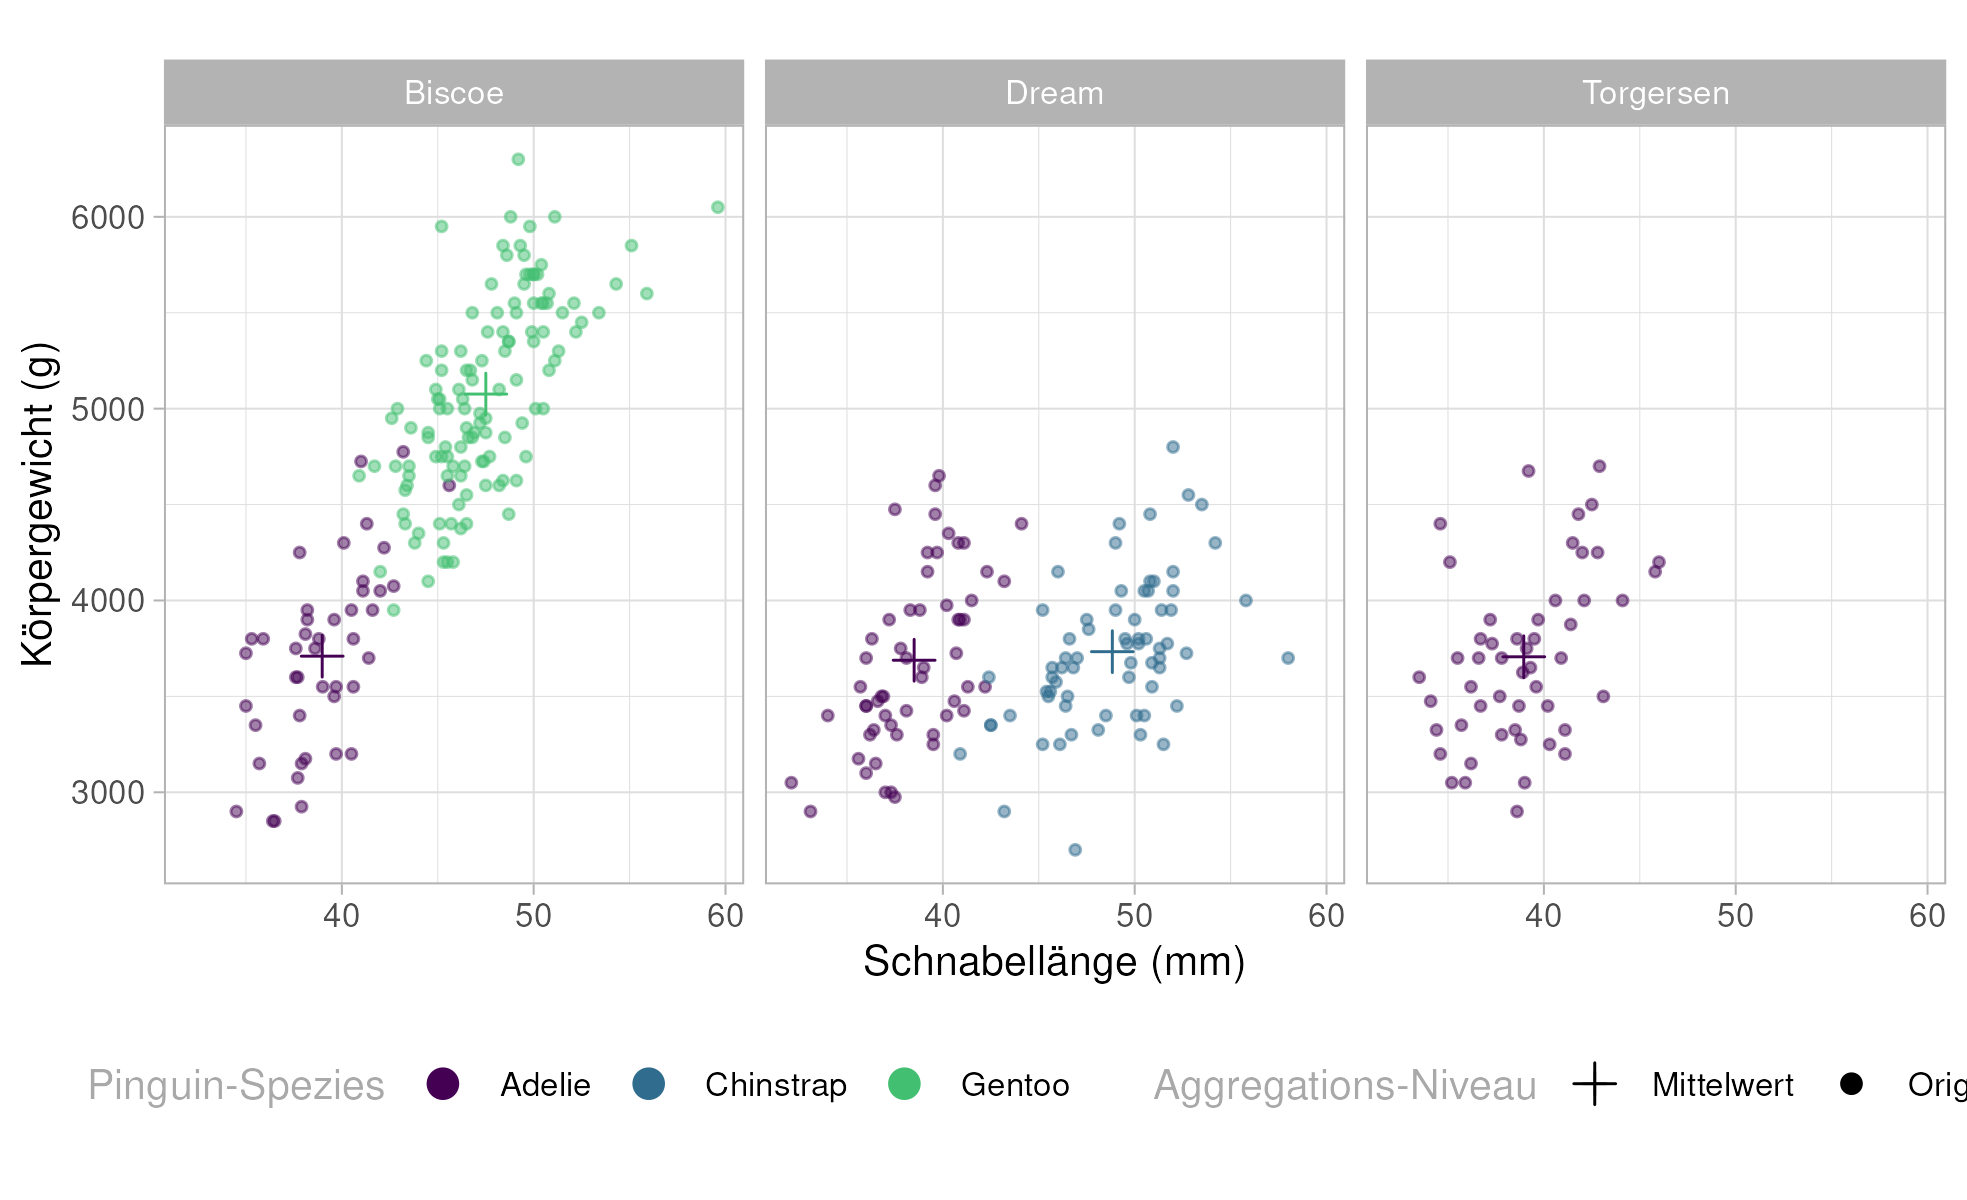
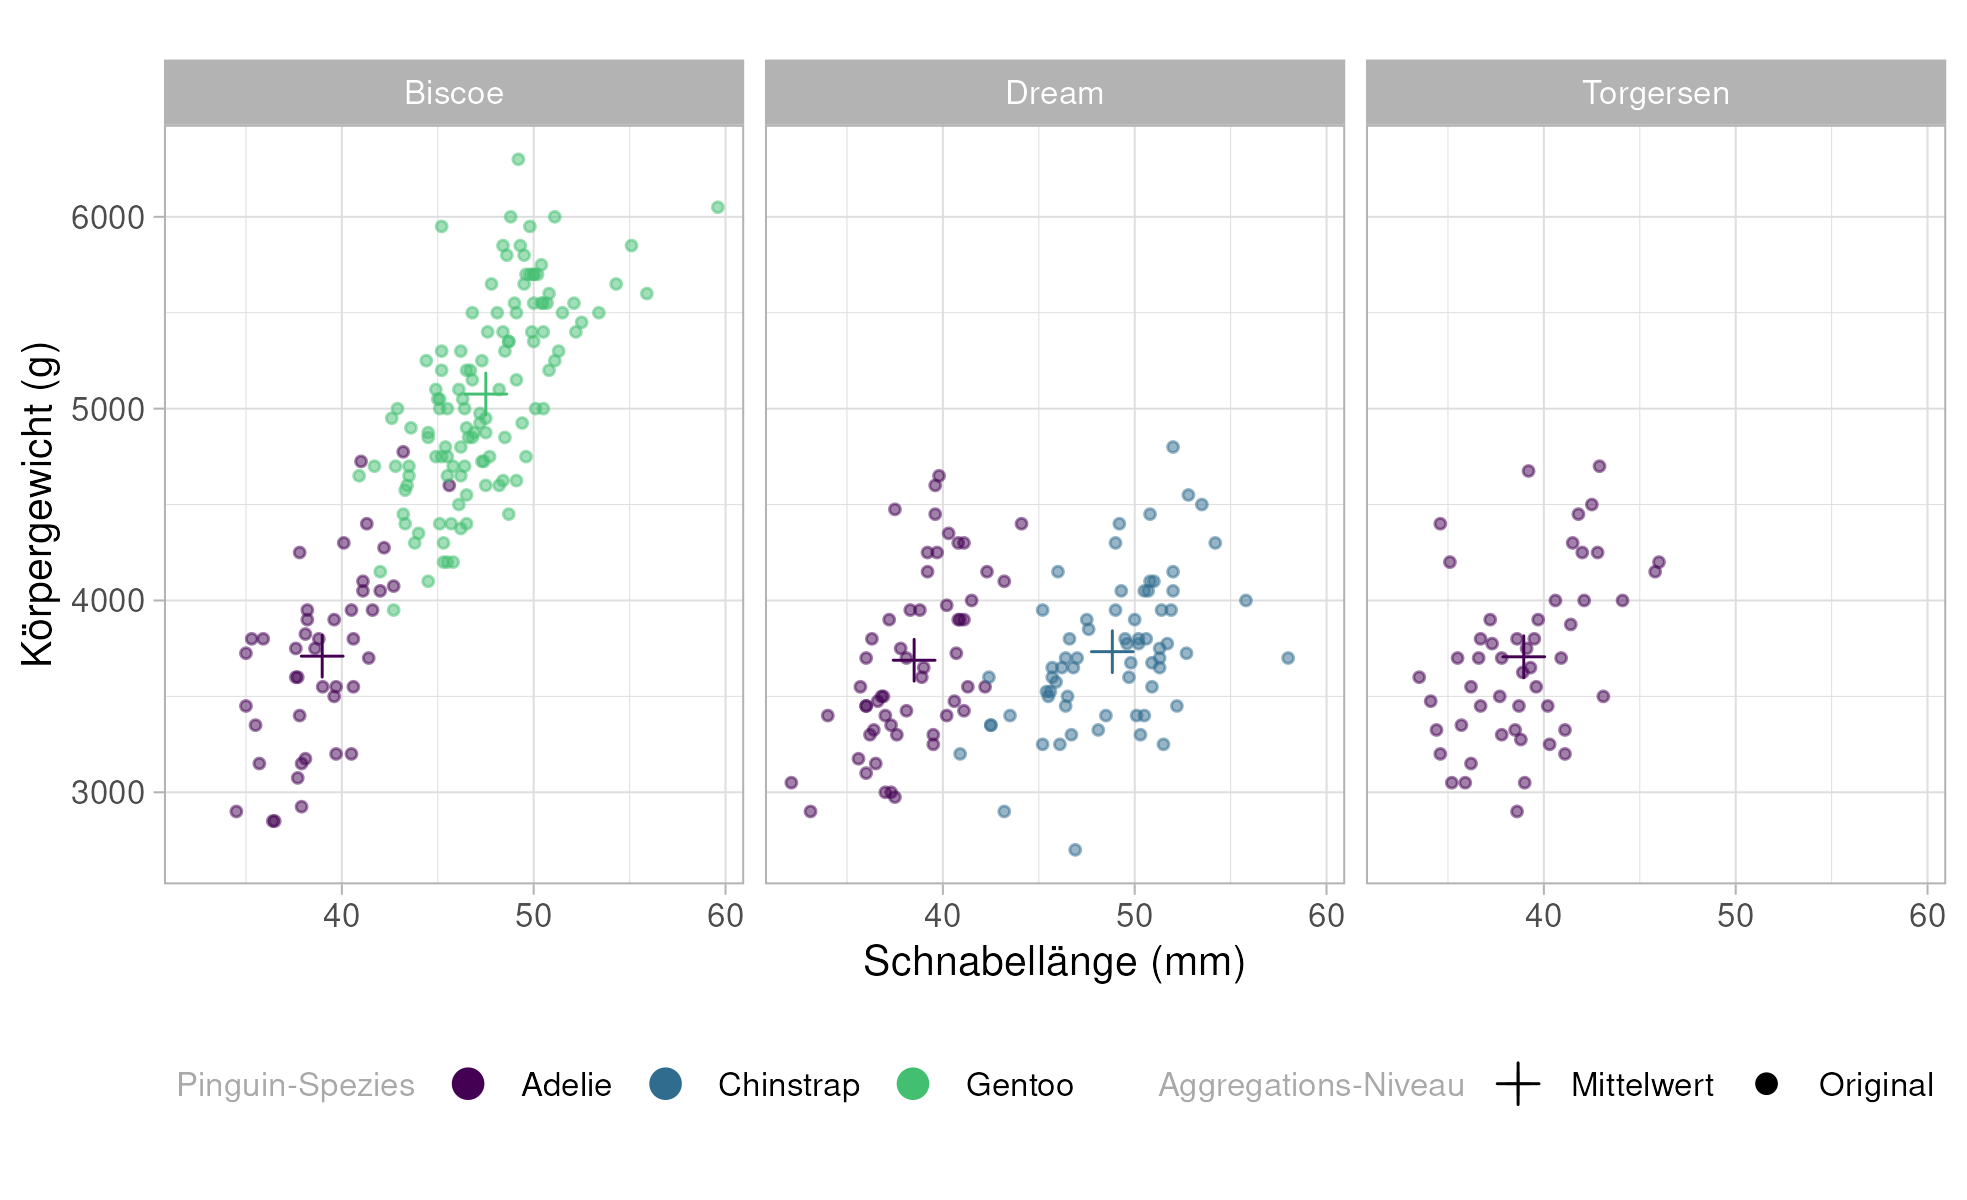
removed tabset in geom-part

Changed region(s): [[0.031, 0.8942, 0.5582, 0.925], [0.5892, 0.8942, 1.0, 0.925]]

diff --git a/docs/graphics.html b/docs/graphics.html
@@ -855,7 +855,7 @@ div.csl-indent {
 <div id="tabset-1-2" class="tab-pane" role="tabpanel" aria-labelledby="tabset-1-2-tab">
 <div class="cell">
 <div class="sourceCode cell-code" id="cb43"><pre class="sourceCode r code-with-copy"><code class="sourceCode r"><span id="cb43-1"><a href="#cb43-1" aria-hidden="true" tabindex="-1"></a>p_smaller_text <span class="ot">&lt;-</span> p <span class="sc">+</span></span>
-<span id="cb43-2"><a href="#cb43-2" aria-hidden="true" tabindex="-1"></a>  <span class="fu">theme</span>(<span class="at">legend.title =</span> <span class="fu">element_text</span>(<span class="at">size =</span> <span class="dv">10</span>,</span>
+<span id="cb43-2"><a href="#cb43-2" aria-hidden="true" tabindex="-1"></a>  <span class="fu">theme</span>(<span class="at">legend.title =</span> <span class="fu">element_text</span>(<span class="at">size =</span> <span class="dv">8</span>,</span>
 <span id="cb43-3"><a href="#cb43-3" aria-hidden="true" tabindex="-1"></a>                                    <span class="at">colour =</span> <span class="st">'darkgrey'</span>))</span>
 <span id="cb43-4"><a href="#cb43-4" aria-hidden="true" tabindex="-1"></a></span>
 <span id="cb43-5"><a href="#cb43-5" aria-hidden="true" tabindex="-1"></a><span class="fu">ggsave</span>(<span class="at">plot =</span> p_smaller_text,</span>
